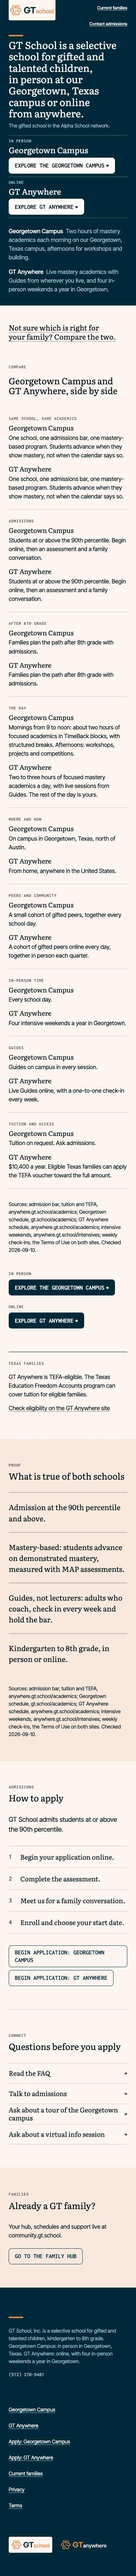
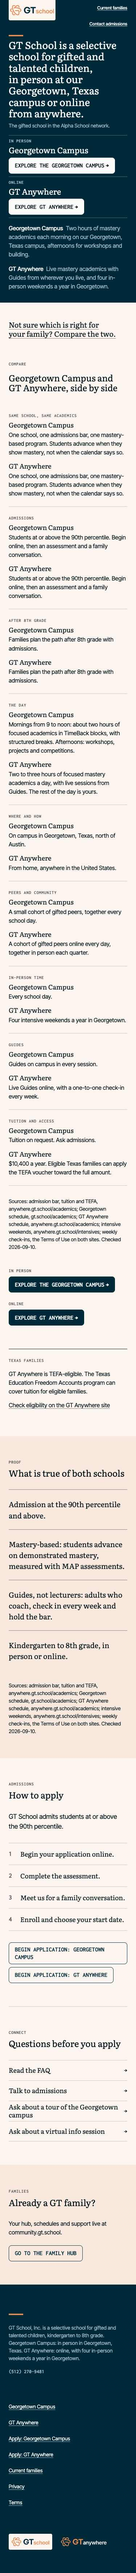
fix(mocks): clear the one false floor each in M03, M06, M08 and M12 under the corrected runner
M03 at 375x629, M06 and M12 at 430x739, M08 at 393x659. Spacing only; no CTA moved on any
row, both checkers clean, every required row now names the element whose ink crosses the
bottom edge. Run-log row 61 escalates whether wave 1 is re-scored before G1, since its gate
was granted against the runner's earlier rule.

diff --git a/0_plan/mockups/index.html b/0_plan/mockups/index.html
@@ -24,6 +24,6 @@ footer{padding:var(--space-6);color:var(--color-text-muted);font-size:var(--text
 <header><img src="./shared/img/gt-school-logo-h.svg" alt="GT School" width="120" height="32"><span>Landing mock gallery, preview only</span></header>
 <main id="main"><h1>Twenty directions for the GT School landing page</h1>
 <p class="lead">Each card is one complete mock built from its brief (kb/briefs) under the shared contract. The state line shows the viewport-matrix runner result and the two critics' scores (nine rubric rows, 1 to 5). Previews are noindex.</p>
-<ul><li class="card"><p class="eyebrow">M01</p><h3>Two Doors</h3><p class="thesis">One selective school, two ways to attend; the parent&#x27;s only job here is to pick the door</p><p class="state"><b>Not built yet</b> <br>brief: kb/briefs/M01.md</p><p class="links"></p></li><li class="card"><p class="eyebrow">M02</p><h3>The Journal</h3><p class="thesis">A school that writes like a school: a masthead, a dated register, a comparison you can read in one screen</p><p class="state"><b>Built</b> all required rows pass<br>Fable: pending; Astra: pending</p><p class="links"><a href="./M02-the-journal/">Open the mock</a> <a href="./M02-the-journal/RATIONALE.md">Rationale</a> <a href="./M02-the-journal/qa/fold.md">Fold and matrix run</a></p></li><li class="card"><p class="eyebrow">M03</p><h3>Navy Thesis</h3><p class="thesis">The statement first, in large Literata on navy; the doors are the second sentence</p><p class="state"><b>Built</b> all required rows pass<br>Fable: 5/5/5/5/5/5/5/5/4 Pass; Astra: 5/4/5/5/5/5/5/4/4 Pass</p><p class="links"><a href="./M03-navy-thesis/">Open the mock</a> <a href="./M03-navy-thesis/RATIONALE.md">Rationale</a> <a href="./M03-navy-thesis/qa/fold.md">Fold and matrix run</a></p></li><li class="card"><p class="eyebrow">M04</p><h3>Campus Window</h3><p class="thesis">Place is the proof: one photograph set as a window in a navy frame, with both doors docked beneath it; the next band stays visible below the fold</p><p class="state"><b>Not built yet</b> <br>brief: kb/briefs/M04.md</p><p class="links"></p></li><li class="card"><p class="eyebrow">M05</p><h3>Front Door of the Estate</h3><p class="thesis">The landing is page one of the shared shell both school sites will inherit: same header, footer, type and spacing, so continuity is demonstrated, not promised</p><p class="state"><b>Not built yet</b> <br>brief: kb/briefs/M05.md</p><p class="links"></p></li><li class="card"><p class="eyebrow">M06</p><h3>The Ledger</h3><p class="thesis">The comparison table is the page: two columns that are also the two doors</p><p class="state"><b>Built</b> all required rows pass<br>Fable: 5/4/5/5/5/5/5/4/5 Pass; Astra: 5/4/5/5/5/5/5/5/4 Pass</p><p class="links"><a href="./M06-the-ledger/">Open the mock</a> <a href="./M06-the-ledger/RATIONALE.md">Rationale</a> <a href="./M06-the-ledger/qa/fold.md">Fold and matrix run</a></p></li><li class="card"><p class="eyebrow">M07</p><h3>The Timetable</h3><p class="thesis">Show the week: in-person days beside online days, Guides in both; a parent understands the difference in one look</p><p class="state"><b>Built</b> all required rows pass<br>Fable: pending; Astra: pending</p><p class="links"><a href="./M07-the-timetable/">Open the mock</a> <a href="./M07-the-timetable/RATIONALE.md">Rationale</a> <a href="./M07-the-timetable/qa/fold.md">Fold and matrix run</a></p></li><li class="card"><p class="eyebrow">M08</p><h3>The Letter</h3><p class="thesis">A school speaks plainly to a family: a letter in Literata, the doors at its close</p><p class="state"><b>Built</b> all required rows pass<br>Fable: 4/4/4/5/5/5/5/4/4 Pass; Astra: 5/4/4/5/5/5/5/4/4 Pass</p><p class="links"><a href="./M08-the-letter/">Open the mock</a> <a href="./M08-the-letter/RATIONALE.md">Rationale</a> <a href="./M08-the-letter/qa/fold.md">Fold and matrix run</a></p></li><li class="card"><p class="eyebrow">M09</p><h3>Two Places</h3><p class="thesis">Two surfaces, warm and cool, one school: the tints carry the choice, the type carries the argument</p><p class="state"><b>Not built yet</b> <br>brief: kb/briefs/M09.md</p><p class="links"></p></li><li class="card"><p class="eyebrow">M10</p><h3>The Map</h3><p class="thesis">Georgetown is a pin; GT Anywhere is the rest of the map; the next campuses are coming (DD-45 Locations)</p><p class="state"><b>Not built yet</b> <br>brief: kb/briefs/M10.md</p><p class="links"></p></li><li class="card"><p class="eyebrow">M11</p><h3>The Prospectus</h3><p class="thesis">Evidence before adjectives: a captioned photograph strip of what actually happens, under a plain first screen</p><p class="state"><b>Not built yet</b> <br>brief: kb/briefs/M11.md</p><p class="links"></p></li><li class="card"><p class="eyebrow">M12</p><h3>Selective by Rigor</h3><p class="thesis">The admission bar is the headline argument (90th percentile, CR-011); both paths meet it</p><p class="state"><b>Built</b> all required rows pass<br>Fable: 4/4/4/5/5/5; Astra: 5/4/4/5/5/5/5/4/4 Pass</p><p class="links"><a href="./M12-selective-by-rigor/">Open the mock</a> <a href="./M12-selective-by-rigor/RATIONALE.md">Rationale</a> <a href="./M12-selective-by-rigor/qa/fold.md">Fold and matrix run</a></p></li><li class="card"><p class="eyebrow">M13</p><h3>Ask a Guide</h3><p class="thesis">The human path: admissions contact and &quot;Ask about a tour&quot; framed as a conversation with the people who teach</p><p class="state"><b>Not built yet</b> <br>brief: kb/briefs/M13.md</p><p class="links"></p></li><li class="card"><p class="eyebrow">M14</p><h3>The Day</h3><p class="thesis">Two parallel days, in person and online, told step by step to the same finish</p><p class="state"><b>Not built yet</b> <br>brief: kb/briefs/M14.md</p><p class="links"></p></li><li class="card"><p class="eyebrow">M15</p><h3>The Proof Strip</h3><p class="thesis">The deck&#x27;s four proof facts, each with its source (D-033 shape), and nothing else; the register rows behind them are Unverified, public, which the rationale states</p><p class="state"><b>Built</b> all required rows pass<br>Fable: pending; Astra: 5/4/5/5/5/5/5/4/4 Pass</p><p class="links"><a href="./M15-the-proof-strip/">Open the mock</a> <a href="./M15-the-proof-strip/RATIONALE.md">Rationale</a> <a href="./M15-the-proof-strip/qa/fold.md">Fold and matrix run</a></p></li><li class="card"><p class="eyebrow">M16</p><h3>Which School Fits</h3><p class="thesis">An interactive router: three questions a parent can answer, then a recommended door; both doors stay visible without JavaScript</p><p class="state"><b>Not built yet</b> <br>brief: kb/briefs/M16.md</p><p class="links"></p></li><li class="card"><p class="eyebrow">M17</p><h3>The Year</h3><p class="thesis">The school&#x27;s rhythm as evidence: every school day on campus, weekly check-ins online, four intensive weekends a year, drawn as a schematic with no dates</p><p class="state"><b>Not built yet</b> <br>brief: kb/briefs/M17.md</p><p class="links"></p></li><li class="card"><p class="eyebrow">M18</p><h3>The Cohort</h3><p class="thesis">What the students do is the argument: the day, the peers, the in-person time and the intensives as the deck states them, with the doors as the two ways to join</p><p class="state"><b>Not built yet</b> <br>brief: kb/briefs/M18.md</p><p class="links"></p></li><li class="card"><p class="eyebrow">M19</p><h3>The Question</h3><p class="thesis">Routing by the parent&#x27;s own questions: the parent questions of `05` section 6c (twelve of the fourteen: PQ-10 is silent by decision and PQ-14 is answered by the provenance line already on the page) answered from the deck, every answer ending in the door, table, step or CTA it points to</p><p class="state"><b>Not built yet</b> <br>brief: kb/briefs/M19.md</p><p class="links"></p></li><li class="card"><p class="eyebrow">M20</p><h3>In Our Words</h3><p class="thesis">The school&#x27;s own words from gt.school, verbatim and attributed as the studio&#x27;s wording of the page&#x27;s headings; no parent testimonial until Q-034</p><p class="state"><b>Not built yet</b> <br>brief: kb/briefs/M20.md</p><p class="links"></p></li></ul>
+<ul><li class="card"><p class="eyebrow">M01</p><h3>Two Doors</h3><p class="thesis">One selective school, two ways to attend; the parent&#x27;s only job here is to pick the door</p><p class="state"><b>Not built yet</b> <br>brief: kb/briefs/M01.md</p><p class="links"></p></li><li class="card"><p class="eyebrow">M02</p><h3>The Journal</h3><p class="thesis">A school that writes like a school: a masthead, a dated register, a comparison you can read in one screen</p><p class="state"><b>Built</b> 1 failure(s)<br>Fable: 3/4/5/4/5/3; Astra: 5/3/5/5/4/5/4/5/4 Iterate</p><p class="links"><a href="./M02-the-journal/">Open the mock</a> <a href="./M02-the-journal/RATIONALE.md">Rationale</a> <a href="./M02-the-journal/qa/fold.md">Fold and matrix run</a></p></li><li class="card"><p class="eyebrow">M03</p><h3>Navy Thesis</h3><p class="thesis">The statement first, in large Literata on navy; the doors are the second sentence</p><p class="state"><b>Built</b> all required rows pass<br>Fable: 5/5/5/5/5/5/5/5/4 Pass; Astra: 5/4/5/5/5/5/5/4/4 Pass</p><p class="links"><a href="./M03-navy-thesis/">Open the mock</a> <a href="./M03-navy-thesis/RATIONALE.md">Rationale</a> <a href="./M03-navy-thesis/qa/fold.md">Fold and matrix run</a></p></li><li class="card"><p class="eyebrow">M04</p><h3>Campus Window</h3><p class="thesis">Place is the proof: one photograph set as a window in a navy frame, with both doors docked beneath it; the next band stays visible below the fold</p><p class="state"><b>Not built yet</b> <br>brief: kb/briefs/M04.md</p><p class="links"></p></li><li class="card"><p class="eyebrow">M05</p><h3>Front Door of the Estate</h3><p class="thesis">The landing is page one of the shared shell both school sites will inherit: same header, footer, type and spacing, so continuity is demonstrated, not promised</p><p class="state"><b>Not built yet</b> <br>brief: kb/briefs/M05.md</p><p class="links"></p></li><li class="card"><p class="eyebrow">M06</p><h3>The Ledger</h3><p class="thesis">The comparison table is the page: two columns that are also the two doors</p><p class="state"><b>Built</b> all required rows pass<br>Fable: 5/4/5/5/5/5/5/4/5 Pass; Astra: 5/4/5/5/5/5/5/5/4 Pass</p><p class="links"><a href="./M06-the-ledger/">Open the mock</a> <a href="./M06-the-ledger/RATIONALE.md">Rationale</a> <a href="./M06-the-ledger/qa/fold.md">Fold and matrix run</a></p></li><li class="card"><p class="eyebrow">M07</p><h3>The Timetable</h3><p class="thesis">Show the week: in-person days beside online days, Guides in both; a parent understands the difference in one look</p><p class="state"><b>Built</b> 4 failure(s)<br>Fable: 3/4/4/4/5/3; Astra: 5/4/5/4/5/5/4/3/4 Iterate</p><p class="links"><a href="./M07-the-timetable/">Open the mock</a> <a href="./M07-the-timetable/RATIONALE.md">Rationale</a> <a href="./M07-the-timetable/qa/fold.md">Fold and matrix run</a></p></li><li class="card"><p class="eyebrow">M08</p><h3>The Letter</h3><p class="thesis">A school speaks plainly to a family: a letter in Literata, the doors at its close</p><p class="state"><b>Built</b> all required rows pass<br>Fable: 4/4/4/5/5/5/5/4/4 Pass; Astra: 5/4/4/5/5/5/5/4/4 Pass</p><p class="links"><a href="./M08-the-letter/">Open the mock</a> <a href="./M08-the-letter/RATIONALE.md">Rationale</a> <a href="./M08-the-letter/qa/fold.md">Fold and matrix run</a></p></li><li class="card"><p class="eyebrow">M09</p><h3>Two Places</h3><p class="thesis">Two surfaces, warm and cool, one school: the tints carry the choice, the type carries the argument</p><p class="state"><b>Built</b> all required rows pass<br>Fable: pending; Astra: pending</p><p class="links"><a href="./M09-two-places/">Open the mock</a> <a href="./M09-two-places/RATIONALE.md">Rationale</a> <a href="./M09-two-places/qa/fold.md">Fold and matrix run</a></p></li><li class="card"><p class="eyebrow">M10</p><h3>The Map</h3><p class="thesis">Georgetown is a pin; GT Anywhere is the rest of the map; the next campuses are coming (DD-45 Locations)</p><p class="state"><b>Not built yet</b> <br>brief: kb/briefs/M10.md</p><p class="links"></p></li><li class="card"><p class="eyebrow">M11</p><h3>The Prospectus</h3><p class="thesis">Evidence before adjectives: a captioned photograph strip of what actually happens, under a plain first screen</p><p class="state"><b>Not built yet</b> <br>brief: kb/briefs/M11.md</p><p class="links"></p></li><li class="card"><p class="eyebrow">M12</p><h3>Selective by Rigor</h3><p class="thesis">The admission bar is the headline argument (90th percentile, CR-011); both paths meet it</p><p class="state"><b>Built</b> all required rows pass<br>Fable: 4/4/4/5/5/5; Astra: 5/4/4/5/5/5/5/4/4 Pass</p><p class="links"><a href="./M12-selective-by-rigor/">Open the mock</a> <a href="./M12-selective-by-rigor/RATIONALE.md">Rationale</a> <a href="./M12-selective-by-rigor/qa/fold.md">Fold and matrix run</a></p></li><li class="card"><p class="eyebrow">M13</p><h3>Ask a Guide</h3><p class="thesis">The human path: admissions contact and &quot;Ask about a tour&quot; framed as a conversation with the people who teach</p><p class="state"><b>Not built yet</b> <br>brief: kb/briefs/M13.md</p><p class="links"></p></li><li class="card"><p class="eyebrow">M14</p><h3>The Day</h3><p class="thesis">Two parallel days, in person and online, told step by step to the same finish</p><p class="state"><b>Not built yet</b> <br>brief: kb/briefs/M14.md</p><p class="links"></p></li><li class="card"><p class="eyebrow">M15</p><h3>The Proof Strip</h3><p class="thesis">The deck&#x27;s four proof facts, each with its source (D-033 shape), and nothing else; the register rows behind them are Unverified, public, which the rationale states</p><p class="state"><b>Built</b> 3 failure(s)<br>Fable: 5/3/4/5/4/5/5/4/4 Iterate; Astra: 5/4/5/5/5/5/5/4/4 Pass</p><p class="links"><a href="./M15-the-proof-strip/">Open the mock</a> <a href="./M15-the-proof-strip/RATIONALE.md">Rationale</a> <a href="./M15-the-proof-strip/qa/fold.md">Fold and matrix run</a></p></li><li class="card"><p class="eyebrow">M16</p><h3>Which School Fits</h3><p class="thesis">An interactive router: three questions a parent can answer, then a recommended door; both doors stay visible without JavaScript</p><p class="state"><b>Not built yet</b> <br>brief: kb/briefs/M16.md</p><p class="links"></p></li><li class="card"><p class="eyebrow">M17</p><h3>The Year</h3><p class="thesis">The school&#x27;s rhythm as evidence: every school day on campus, weekly check-ins online, four intensive weekends a year, drawn as a schematic with no dates</p><p class="state"><b>Not built yet</b> <br>brief: kb/briefs/M17.md</p><p class="links"></p></li><li class="card"><p class="eyebrow">M18</p><h3>The Cohort</h3><p class="thesis">What the students do is the argument: the day, the peers, the in-person time and the intensives as the deck states them, with the doors as the two ways to join</p><p class="state"><b>Not built yet</b> <br>brief: kb/briefs/M18.md</p><p class="links"></p></li><li class="card"><p class="eyebrow">M19</p><h3>The Question</h3><p class="thesis">Routing by the parent&#x27;s own questions: the parent questions of `05` section 6c (twelve of the fourteen: PQ-10 is silent by decision and PQ-14 is answered by the provenance line already on the page) answered from the deck, every answer ending in the door, table, step or CTA it points to</p><p class="state"><b>Not built yet</b> <br>brief: kb/briefs/M19.md</p><p class="links"></p></li><li class="card"><p class="eyebrow">M20</p><h3>In Our Words</h3><p class="thesis">The school&#x27;s own words from gt.school, verbatim and attributed as the studio&#x27;s wording of the page&#x27;s headings; no parent testimonial until Q-034</p><p class="state"><b>Not built yet</b> <br>brief: kb/briefs/M20.md</p><p class="links"></p></li></ul>
 <h2>The earlier five</h2><ul><li class="card old"><h3>M1-two-doors</h3><p class="state">Earlier direction, reviewed at E2 and E3; superseded by the twenty. 10 failure(s)</p><p class="links"><a href="./M1-two-doors/">Open</a> <a href="./M1-two-doors/RATIONALE.md">Rationale</a></p></li><li class="card old"><h3>M2-the-institute</h3><p class="state">Earlier direction, reviewed at E2 and E3; superseded by the twenty. QA not run</p><p class="links"><a href="./M2-the-institute/">Open</a> <a href="./M2-the-institute/RATIONALE.md">Rationale</a></p></li><li class="card old"><h3>M3-private-quiet</h3><p class="state">Earlier direction, reviewed at E2 and E3; superseded by the twenty. QA not run</p><p class="links"><a href="./M3-private-quiet/">Open</a> <a href="./M3-private-quiet/RATIONALE.md">Rationale</a></p></li><li class="card old"><h3>M4-builders</h3><p class="state">Earlier direction, reviewed at E2 and E3; superseded by the twenty. QA not run</p><p class="links"><a href="./M4-builders/">Open</a> <a href="./M4-builders/RATIONALE.md">Rationale</a></p></li><li class="card old"><h3>M5-one-school-two-campuses</h3><p class="state">Earlier direction, reviewed at E2 and E3; superseded by the twenty. QA not run</p><p class="links"><a href="./M5-one-school-two-campuses/">Open</a> <a href="./M5-one-school-two-campuses/RATIONALE.md">Rationale</a></p></li></ul></main>
 <footer>Generated by 0_plan/tools/build-gallery.py. No form on any mock; nothing here submits to a live backend.</footer></body></html>

diff --git a/0_plan/mockups/M12-selective-by-rigor/styles.css b/0_plan/mockups/M12-selective-by-rigor/styles.css
@@ -95,6 +95,14 @@ h1 { font-weight: var(--h1-weight); font-size: var(--text-3xl); line-height: var
    line sits under its own card in the same column and the run-in name is hidden visually, kept for readers. */
 .door-lines { display: grid; grid-template-columns: minmax(0, 1fr); gap: var(--space-3); margin-top: var(--space-4); font-size: var(--text-base); line-height: var(--leading-prose); color: var(--color-text-muted-on-dark); }
 .door-lines li { max-width: var(--measure-prose); }
+
+/* Phone rows where the statement is ordered below the lines: the lines sit lower so the second one is cut by the bottom
+   edge rather than ending just above it. At 430 by 739 it finished at 737 of 739 and the statement's rule opened past the
+   edge, so the screen read as complete with the admissions statement invisible. Nothing above the lines moves. This sits
+   after the base rule above, which would otherwise win on source order. */
+@media (max-width: 767px) and (min-height: 700px) and (max-height: 759px) {
+  .door-lines { margin-top: calc(var(--space-4) + var(--space-3)); }
+}
 .door-run-in { font-weight: 500; color: var(--color-on-navy); margin-right: 0.35em; }
 @media (min-width: 768px) {
   .door-lines { grid-template-columns: repeat(2, minmax(0, 1fr)); gap: var(--space-6); }

diff --git a/0_plan/mockups/M08-the-letter/styles.css b/0_plan/mockups/M08-the-letter/styles.css
@@ -107,9 +107,11 @@ h1 { font-size: var(--text-3xl); line-height: var(--leading-tight); max-width: 3
 /* Phone rows between 640 and 699 tall (V3 664, V4 659, V7 681): the two moved door lines sit closer to the second CTA and to
    each other (16 and 12px), so the second paragraph starts inside the viewport and is cut by its bottom edge instead of the
    first ending just above it (a false floor measured at 655 of 664 and 659). Only the last door's CTA margin changes (the gap
-   below the second CTA), so neither CTA moves. */
+   below the second CTA), so neither CTA moves. The margin is now zero rather than 4px: at 393 by 659 the second paragraph
+   began exactly at the 8px threshold the runner requires above the bottom edge, so the reader saw its leading and not its
+   first line. The row gap still holds the two paragraphs 12px apart. */
 @media (max-width: 767px) and (min-height: 640px) and (max-height: 699px) {
-  .door:last-child > .door-cta { margin-bottom: var(--space-2); }
+  .door:last-child > .door-cta { margin-bottom: 0; }
   .door > .door-line { margin-top: var(--space-2); }
 }
 

diff --git a/0_plan/mockups/M06-the-ledger/styles.css b/0_plan/mockups/M06-the-ledger/styles.css
@@ -256,6 +256,13 @@ ul, ol { padding: 0; list-style: none; }
   .line-cell__name { font-weight: 500; }
 }
 
+/* Phone rows around 740 tall (V1 360 by 740, V8 430 by 739): the lines row finished 6px above the bottom edge and the
+   long comparison row below it opened past the edge with its text out of sight, so the ledger read as closed. Sixteen
+   more pixels above the lines put the row itself across the edge. Nothing above the lines moves. */
+@media (max-width: 899px) and (min-height: 720px) and (max-height: 760px) {
+  .ledger .ledger__lines { padding-top: var(--space-5); }
+}
+
 /* Two-up stacked form, 736 to 899px (landscape phones, portrait tablets): the doors side by side, each row's two
    school cells side by side under the row label, the foot CTAs side by side. 736px is the narrowest width at which
    "Explore the Georgetown campus" stays on one line in two equal doors. */

diff --git a/0_plan/mockups/M03-navy-thesis/styles.css b/0_plan/mockups/M03-navy-thesis/styles.css
@@ -121,6 +121,13 @@ h1 { font-size: var(--text-3xl); max-width: 35ch; }
   .run-in { font-weight: 500; color: var(--color-on-navy); padding-inline-end: var(--space-2); }
 }
 
+/* The shortest phone (V2, 375 by 629): with 24px above them the run-in lines began 3px before the bottom edge, so the
+   reader saw a sliver of leading rather than a line of type and the screen read as finished. 16px puts a whole line in
+   view under the second CTA. */
+@media (max-width: 1023px) and (max-height: 639px) {
+  .door-lines { margin-top: var(--space-4); }
+}
+
 /* Landscape phone (V10, 750 by 342): the thesis and the compact door rows side by side, the h1 one step down, so both
    CTAs still end above the fold limit; the run-in lines follow under both columns. */
 @media (max-height: 479px) and (min-width: 600px) {

diff --git a/1_spec/RUN-LOG.md b/1_spec/RUN-LOG.md
@@ -63,3 +63,5 @@ Append-only. Machine-checked by `1_spec/tools/check-runlog.py` (rules in `1_spec
 | 57 | 2026-09-12 00:50 | DEL-005 | Gate | Both critics; Fable orchestrates | M08 The Letter clears the studio gate: Fable 4/4/4/5/5/5/5/4/4 and Astra 5/4/4/5/5/5/5/4/4; wave 1 complete (M03, M06, M08, M12). Fable's critic found a false floor at 1280 by 720 that the runner's tightened next-band rule exposes (the compare hairline at 735 outside a 720 viewport); a two-line spacing fix and rationale corrections go back to the engineer without reopening the scores. Wave 2 (M15, M02, M07) building; M09 next | Four directions built, measured on nineteen rows, scored twice by two critics and iterated once each in one working day: the studio process the runbook describes is running as written | 0_plan/ensemble/critic-fable-M08.md, critic-astra-M08.md | Done | Pass |
 | 58 | 2026-09-12 02:10 | DEL-005 | Handoff | Opus 5 (design director), previously Fable 5.1; Astra unchanged | Studio-side model handed from Claude Fable 5.1 to Claude Opus 5 mid wave 2, after the Fable allowance was exhausted and three critic agents plus the M09 engineer stopped with an out-of-credits error (HTTP 429, model claude-fable-5-1); the four agents were relaunched on Opus 5 and the change was recorded in the runbook's roles table | The ensemble's guarantee is that two independent model families score every artifact and that the studio critic is never a cheaper model than the studio author, not that the studio model is any particular one; holding the wave until the allowance refilled would have stalled twenty mocks on a billing condition rather than a design one, while switching keeps both columns independent because Astra remains gpt-6-astra on the other side, and the scorecard filenames name the ensemble column rather than the model so the gallery, the runbook and the checkers keep working unchanged. Mocks scored before 2026-09-11 23:00 carry Fable 5.1 scores (M03, M06, M08, M12 and Astra's M15, M07 and M02 cards) and everything after carries Opus 5 scores, which the runbook states so a later reader can tell which model set any given number | 0_plan/17-design-studio-runbook.md section 2; 0_plan/ensemble/critic-astra-M15.md; 0_plan/ensemble/critic-astra-M07.md; 0_plan/ensemble/critic-astra-M02.md | Done | Pending |
 | 59 | 2026-09-12 02:15 | DEL-005 | Verify-Astra | Astra (gpt-6-astra) | Astra scored the three wave-2 mocks that finished building: M15 The Proof Strip passes all nine rubric rows (5/4/5/5/5/5/5/4/4); M07 The Timetable iterates on Craft at 3 because the Georgetown band's internal rectangle strokes cross both day labels in forced colors; M02 The Journal iterates on Composition at 3 because only one of the three comparison excerpt rows reaches the first screen at 1280 by 720, which is the direction's whole promise | Astra reviews independently of the studio critic under the standard process, reading the files and the key-row captures rather than the engineer's summary, and its findings here are all reproducible from artifacts in the repository: the forced-colors capture shows the crossed labels, the V14 capture shows the single excerpt row against V16's three, and each scorecard also lists rationale assertions that do not match the files, including a stated accent rule width of 40px where the stylesheet sets 64px and pasted runner output whose timestamp predates the current fold report. Those two classes of finding, a visible defect and an unfaithful rationale, are exactly what the second column exists to catch | 0_plan/ensemble/critic-astra-M15.md; 0_plan/ensemble/critic-astra-M07.md; 0_plan/ensemble/critic-astra-M02.md; 0_plan/mockups/M07-the-timetable/qa/forced-colors.jpg; 0_plan/mockups/M02-the-journal/qa/V14.jpg | Done | Pending |
+| 60 | 2026-09-12 03:05 | DEL-005 | Fix | Opus 5 (design director) | Corrected `0_plan/tools/shots.mjs` after both critics found false floors the runner had passed, then fixed the one row each of M03, M06, M08 and M12 that the corrected rule failed: M03 at 375 by 629, M06 and M12 at 430 by 739, M08 at 393 by 659 | The runner counted a band as cut whenever its box crossed the viewport edge, so a section's bottom padding and the empty leading of a line box read as continuation and a screen that looked finished to a parent passed the check; the rule now requires ink, meaning text, a painted edge or an image, starting below the last door CTA, visible at least eight pixels above the edge and crossing it by more than two, and it also accepts a surface change that runs off the bottom, which is how a navy first screen closing onto cream reads as more page without anything literally cut. A background counts as an edge only at 1.2 to 1 or better, so a 1.10 to 1 tint no longer stands in for content. Two regexes were losing their backslashes to the template literal that carries the measuring script into the browser, which had silently disabled the luminance test; that bug is why the first corrected run still disagreed with the critics. A false floor now fails its row rather than printing a warning, so the gate no longer depends on a critic noticing. The four wave-1 fixes are spacing only and no CTA moved on any row | 0_plan/tools/shots.mjs; 0_plan/mockups/M03-navy-thesis/qa/fold.md; 0_plan/mockups/M06-the-ledger/qa/fold.md; 0_plan/mockups/M08-the-letter/qa/fold.md; 0_plan/mockups/M12-selective-by-rigor/qa/fold.md | Done | Pass |
+| 61 | 2026-09-12 03:10 | DEL-005 | Escalate | Opus 5 (design director) | Recorded that wave 1 (M03, M06, M08, M12) cleared the studio gate on 2026-09-11 against a runner that under-reported false floors, and that each of the four has since been corrected and re-measured rather than re-gated | The gate's meaning depends on the evidence behind it, so a gate granted on a tool that has since been shown wrong must be stated rather than quietly inherited; the four mocks now pass the corrected rule on every required row with the element that cuts each row named in their fold reports, and their critic scorecards did not rest on the rows that changed, so re-running both critics would spend two model passes to confirm a spacing change the runner already measures. Johnny decides whether wave 1 is re-scored before G1 or accepted on this record, and the decision packet carries the question | 0_plan/17-design-studio-runbook.md section 2; 1_spec/RUN-LOG.md row 60; 0_plan/mockups/M03-navy-thesis/qa/fold.md | Escalated | Pending |

diff --git a/0_plan/mockups/M03-navy-thesis/qa/fold.md b/0_plan/mockups/M03-navy-thesis/qa/fold.md
@@ -1,11 +1,11 @@
 # Fold and matrix run
 
-Runner: `0_plan/tools/shots.mjs` with Playwright from `/Users/johnny/.npm/_npx/9833c18b2d85bc59/node_modules/playwright`, cached Chrome for Testing chromium-1234 151.0.7922.34; 2026-09-11T11:44:18.836Z; page `/0_plan/mockups/M03-navy-thesis/index.html`.
+Runner: `0_plan/tools/shots.mjs` with Playwright from `/Users/johnny/.npm/_npx/9833c18b2d85bc59/node_modules/playwright`, cached Chrome for Testing chromium-1234 151.0.7922.34; 2026-09-11T11:48:26.768Z; page `/0_plan/mockups/M03-navy-thesis/index.html`.
 
 | Row | Viewport | Rule | Limit | header | h1 | provenance | CTA Georgetown | CTA Anywhere | Next band cut | Result |
 |---|---|---|---|---|---|---|---|---|---|---|
 | V1 | 360 by 740 | fold | 716 | 88 | 341 | 370 | 500 | 613 | yes | PASS |
-| V2 | 375 by 629 | fold | 605 | 88 | 327 | 356 | 478 | 591 | no | FAIL false floor: nothing visible continues past the bottom edge |
+| V2 | 375 by 629 | fold | 605 | 88 | 327 | 356 | 478 | 591 | yes | PASS |
 | V3 | 390 by 664 | fold | 640 | 56 | 314 | 343 | 472 | 586 | yes | PASS |
 | V4 | 393 by 659 | fold | 635 | 56 | 314 | 343 | 473 | 586 | yes | PASS |
 | V5 | 414 by 715 | fold | 691 | 56 | 285 | 314 | 444 | 557 | yes | PASS |
@@ -47,7 +47,7 @@ What the runner saw continuing below the fold. Ink means text, a painted edge or
 | Row | Cut | Element and the ink that crosses the bottom edge |
 |---|---|---|
 | V1 | yes | div.wrap ink 648 to 828 |
-| V2 | no | nothing visible starts below the last CTA and crosses the bottom edge |
+| V2 | yes | div.wrap ink 618 to 798 |
 | V3 | yes | div.wrap ink 621 to 801 |
 | V4 | yes | div.wrap ink 621 to 802 |
 | V5 | yes | div.wrap ink 592 to 749 |
@@ -55,7 +55,7 @@ What the runner saw continuing below the fold. Ink means text, a painted edge or
 | V7 | yes | div.wrap ink 623 to 803 |
 | V8 | yes | div.wrap ink 595 to 751 |
 | V9 | yes | surface changes from rgb(0, 42, 58) to rgb(252, 244, 239) between the last CTA and the bottom edge, and the page continues below |
-| V10 | yes | div.wrap ink 317 to 428 |
+| V10 | yes | div.wrap ink 309 to 420 |
 | V11 | yes | section.section ink 1002 to 3416 |
 | V12 | yes | section.section ink 1027 to 3399 |
 | V13 | yes | surface changes from rgb(0, 42, 58) to rgb(252, 244, 239) between the last CTA and the bottom edge, and the page continues below |
@@ -66,4 +66,4 @@ What the runner saw continuing below the fold. Ink means text, a painted edge or
 | V18 | no | nothing visible starts below the last CTA and crosses the bottom edge |
 | V19 | no | nothing visible starts below the last CTA and crosses the bottom edge |
 
-## Result: 1 failure(s)
+## Result: all required rows pass

diff --git a/0_plan/mockups/M12-selective-by-rigor/qa/fold.md b/0_plan/mockups/M12-selective-by-rigor/qa/fold.md
@@ -1,6 +1,6 @@
 # Fold and matrix run
 
-Runner: `0_plan/tools/shots.mjs` with Playwright from `/Users/johnny/.npm/_npx/9833c18b2d85bc59/node_modules/playwright`, cached Chrome for Testing chromium-1234 151.0.7922.34; 2026-09-11T11:44:37.878Z; page `/0_plan/mockups/M12-selective-by-rigor/index.html`.
+Runner: `0_plan/tools/shots.mjs` with Playwright from `/Users/johnny/.npm/_npx/9833c18b2d85bc59/node_modules/playwright`, cached Chrome for Testing chromium-1234 151.0.7922.34; 2026-09-11T11:50:44.252Z; page `/0_plan/mockups/M12-selective-by-rigor/index.html`.
 
 | Row | Viewport | Rule | Limit | header | h1 | provenance | CTA Georgetown | CTA Anywhere | Next band cut | Result |
 |---|---|---|---|---|---|---|---|---|---|---|
@@ -11,7 +11,7 @@ Runner: `0_plan/tools/shots.mjs` with Playwright from `/Users/johnny/.npm/_npx/9
 | V5 | 414 by 715 | fold | 691 | 56 | 265 | 302 | 437 | 564 | yes | PASS |
 | V6 | 412 by 839 | fold | 815 | 56 | 265 | 302 | 597 | 725 | yes | PASS |
 | V7 | 402 by 681 | fold | 657 | 56 | 263 | 300 | 435 | 563 | yes | PASS |
-| V8 | 430 by 739 | fold | 715 | 56 | 267 | 304 | 439 | 566 | no | FAIL false floor: nothing visible continues past the bottom edge |
+| V8 | 430 by 739 | fold | 715 | 56 | 267 | 304 | 439 | 566 | yes | PASS |
 | V9 | 390 by 844 | emptiness |  | 56 | 294 | 331 | 626 | 753 | yes | report: page height 6638 |
 | V10 | 750 by 342 | fold | 318 | 56 | 147 | 177 | 306 | 306 | yes | PASS |
 | V11 | 768 by 1024 | fold | 1000 | 56 | 276 | 314 | 602 | 602 | yes | PASS |
@@ -46,14 +46,14 @@ What the runner saw continuing below the fold. Ink means text, a painted edge or
 
 | Row | Cut | Element and the ink that crosses the bottom edge |
 |---|---|---|
-| V1 | yes | ul.door-lines ink 606 to 779 |
+| V1 | yes | ul.door-lines ink 614 to 787 |
 | V2 | yes | ul.door-lines ink 608 to 781 |
 | V3 | yes | ul.door-lines ink 611 to 784 |
 | V4 | yes | ul.door-lines ink 611 to 785 |
-| V5 | yes | ul.door-lines ink 582 to 732 |
+| V5 | yes | ul.door-lines ink 590 to 740 |
 | V6 | yes | ul.door-lines ink 743 to 892 |
 | V7 | yes | ul.door-lines ink 581 to 754 |
-| V8 | no | nothing visible starts below the last CTA and crosses the bottom edge |
+| V8 | yes | ul.door-lines ink 592 to 742 |
 | V9 | yes | ul.door-lines ink 771 to 945 |
 | V10 | yes | ul.door-lines ink 324 to 420 |
 | V11 | yes | section.band ink 858 to 2382 |
@@ -66,4 +66,4 @@ What the runner saw continuing below the fold. Ink means text, a painted edge or
 | V18 | no | nothing visible starts below the last CTA and crosses the bottom edge |
 | V19 | yes | div.statement ink 561 to 681 |
 
-## Result: 1 failure(s)
+## Result: all required rows pass

diff --git a/0_plan/mockups/M06-the-ledger/qa/fold.md b/0_plan/mockups/M06-the-ledger/qa/fold.md
@@ -1,6 +1,6 @@
 # Fold and matrix run
 
-Runner: `0_plan/tools/shots.mjs` with Playwright from `/Users/johnny/.npm/_npx/9833c18b2d85bc59/node_modules/playwright`, cached Chrome for Testing chromium-1234 151.0.7922.34; 2026-09-11T11:44:25.263Z; page `/0_plan/mockups/M06-the-ledger/index.html`.
+Runner: `0_plan/tools/shots.mjs` with Playwright from `/Users/johnny/.npm/_npx/9833c18b2d85bc59/node_modules/playwright`, cached Chrome for Testing chromium-1234 151.0.7922.34; 2026-09-11T11:51:02.271Z; page `/0_plan/mockups/M06-the-ledger/index.html`.
 
 | Row | Viewport | Rule | Limit | header | h1 | provenance | CTA Georgetown | CTA Anywhere | Next band cut | Result |
 |---|---|---|---|---|---|---|---|---|---|---|
@@ -11,7 +11,7 @@ Runner: `0_plan/tools/shots.mjs` with Playwright from `/Users/johnny/.npm/_npx/9
 | V5 | 414 by 715 | fold | 691 | 56 | 213 | 238 | 433 | 562 | yes | PASS |
 | V6 | 412 by 839 | fold | 815 | 56 | 213 | 238 | 513 | 723 | yes | PASS |
 | V7 | 402 by 681 | fold | 657 | 56 | 212 | 238 | 432 | 562 | yes | PASS |
-| V8 | 430 by 739 | fold | 715 | 56 | 214 | 239 | 434 | 564 | no | FAIL false floor: nothing visible continues past the bottom edge |
+| V8 | 430 by 739 | fold | 715 | 56 | 214 | 239 | 434 | 564 | yes | PASS |
 | V9 | 390 by 844 | emptiness |  | 56 | 212 | 237 | 512 | 721 | yes | report: page height 5211 |
 | V10 | 750 by 342 | fold | 318 | 56 | 147 | 199 | 297 | 297 | yes | PASS |
 | V11 | 768 by 1024 | fold | 1000 | 56 | 229 | 255 | 546 | 546 | yes | PASS |
@@ -46,14 +46,14 @@ What the runner saw continuing below the fold. Ink means text, a painted edge or
 
 | Row | Cut | Element and the ink that crosses the bottom edge |
 |---|---|---|
-| V1 | yes | tr.ledger__lines ink 604 to 776 |
+| V1 | yes | tr.ledger__lines ink 620 to 792 |
 | V2 | yes | tr.ledger__lines ink 578 to 750 |
 | V3 | yes | tr.ledger__lines ink 579 to 751 |
 | V4 | yes | tr.ledger__lines ink 579 to 752 |
 | V5 | yes | tr.ledger__lines ink 580 to 729 |
 | V6 | yes | tbody ink 731 to 2265 |
 | V7 | yes | tr.ledger__lines ink 580 to 752 |
-| V8 | no | nothing visible starts below the last CTA and crosses the bottom edge |
+| V8 | yes | tr.ledger__lines ink 598 to 747 |
 | V9 | yes | tbody ink 729 to 2286 |
 | V10 | yes | tr.ledger__lines ink 315 to 411 |
 | V11 | yes | tbody ink 554 to 1680 |
@@ -66,4 +66,4 @@ What the runner saw continuing below the fold. Ink means text, a painted edge or
 | V18 | no | nothing visible starts below the last CTA and crosses the bottom edge |
 | V19 | yes | tbody ink 559 to 1411 |
 
-## Result: 1 failure(s)
+## Result: all required rows pass

diff --git a/0_plan/mockups/M08-the-letter/qa/fold.md b/0_plan/mockups/M08-the-letter/qa/fold.md
@@ -1,13 +1,13 @@
 # Fold and matrix run
 
-Runner: `0_plan/tools/shots.mjs` with Playwright from `/Users/johnny/.npm/_npx/9833c18b2d85bc59/node_modules/playwright`, cached Chrome for Testing chromium-1234 151.0.7922.34; 2026-09-11T11:44:31.468Z; page `/0_plan/mockups/M08-the-letter/index.html`.
+Runner: `0_plan/tools/shots.mjs` with Playwright from `/Users/johnny/.npm/_npx/9833c18b2d85bc59/node_modules/playwright`, cached Chrome for Testing chromium-1234 151.0.7922.34; 2026-09-11T11:49:32.656Z; page `/0_plan/mockups/M08-the-letter/index.html`.
 
 | Row | Viewport | Rule | Limit | header | h1 | provenance | CTA Georgetown | CTA Anywhere | Next band cut | Result |
 |---|---|---|---|---|---|---|---|---|---|---|
 | V1 | 360 by 740 | fold | 716 | 56 | 289 | 326 | 419 | 510 | yes | PASS |
 | V2 | 375 by 629 | fold | 605 | 56 | 291 | 328 | 421 | 512 | yes | PASS |
 | V3 | 390 by 664 | fold | 640 | 56 | 294 | 331 | 424 | 515 | yes | PASS |
-| V4 | 393 by 659 | fold | 635 | 56 | 294 | 331 | 424 | 515 | no | FAIL false floor: nothing visible continues past the bottom edge |
+| V4 | 393 by 659 | fold | 635 | 56 | 294 | 331 | 424 | 515 | yes | PASS |
 | V5 | 414 by 715 | fold | 691 | 56 | 265 | 302 | 488 | 665 | yes | PASS |
 | V6 | 412 by 839 | fold | 815 | 56 | 265 | 302 | 488 | 665 | yes | PASS |
 | V7 | 402 by 681 | fold | 657 | 56 | 263 | 300 | 393 | 485 | yes | PASS |
@@ -48,11 +48,11 @@ What the runner saw continuing below the fold. Ink means text, a painted edge or
 |---|---|---|
 | V1 | yes | p.door-line ink 693 to 801 |
 | V2 | yes | p.door-line ink 544 to 680 |
-| V3 | yes | p.door-line ink 651 to 759 |
-| V4 | no | nothing visible starts below the last CTA and crosses the bottom edge |
+| V3 | yes | p.door-line ink 647 to 755 |
+| V4 | yes | p.door-line ink 647 to 756 |
 | V5 | yes | p.postscript ink 697 to 745 |
 | V6 | yes | section.section ink 793 to 3428 |
-| V7 | yes | p.door-line ink 621 to 729 |
+| V7 | yes | p.door-line ink 617 to 725 |
 | V8 | yes | p.postscript ink 699 to 748 |
 | V9 | yes | section.section ink 822 to 3578 |
 | V10 | yes | p.door-line ink 278 to 363 |
@@ -66,4 +66,4 @@ What the runner saw continuing below the fold. Ink means text, a painted edge or
 | V18 | no | nothing visible starts below the last CTA and crosses the bottom edge |
 | V19 | yes | p.postscript ink 563 to 588 |
 
-## Result: 1 failure(s)
+## Result: all required rows pass
